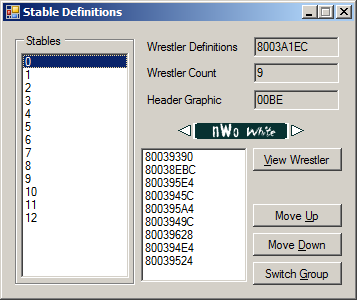
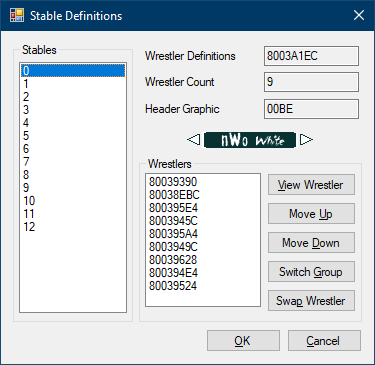
update the manual and some of the screenshots

diff --git a/VPWStudio/VPWStudio/Manual/index.html b/VPWStudio/VPWStudio/Manual/index.html
@@ -1076,6 +1076,21 @@ The stable data controls how the wrestlers are grouped and displayed in the menu
 <h3>WCW vs. nWo World Tour, Virtual Pro-Wrestling 64</h3>
 <p>Since the Stable data structures in these two games are the same, they're grouped together.</p>
 
+<table>
+<thead>
+<tr>
+<th>WCW vs. nWo World Tour</th>
+<th>Virtual Pro-Wrestling 64</th>
+</tr>
+</thead>
+<tbody>
+<tr>
+<td><img src="./img/stable_editor-worldtour.png" title="Stable Editor - WCW vs. nWo World Tour" /></td>
+<td><img src="./img/stable_editor-vpw64.png" title="Stable Editor - Virtual Pro-Wrestling 64" /></td>
+</tr>
+</tbody>
+</table>
+
 <h3>WCW/nWo Revenge</h3>
 <img src="./img/stable_editor-revenge.png" title="Stable Editor - WCW/nWo Revenge" />
 <ul>
